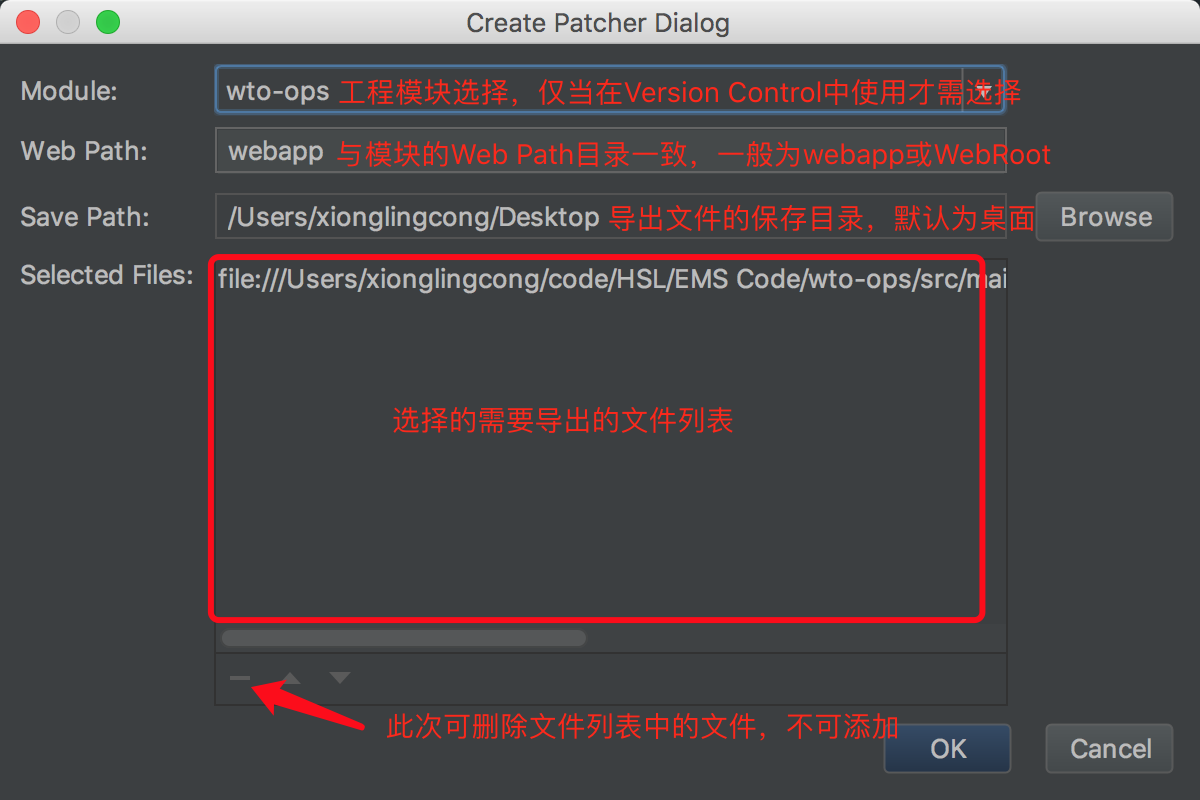
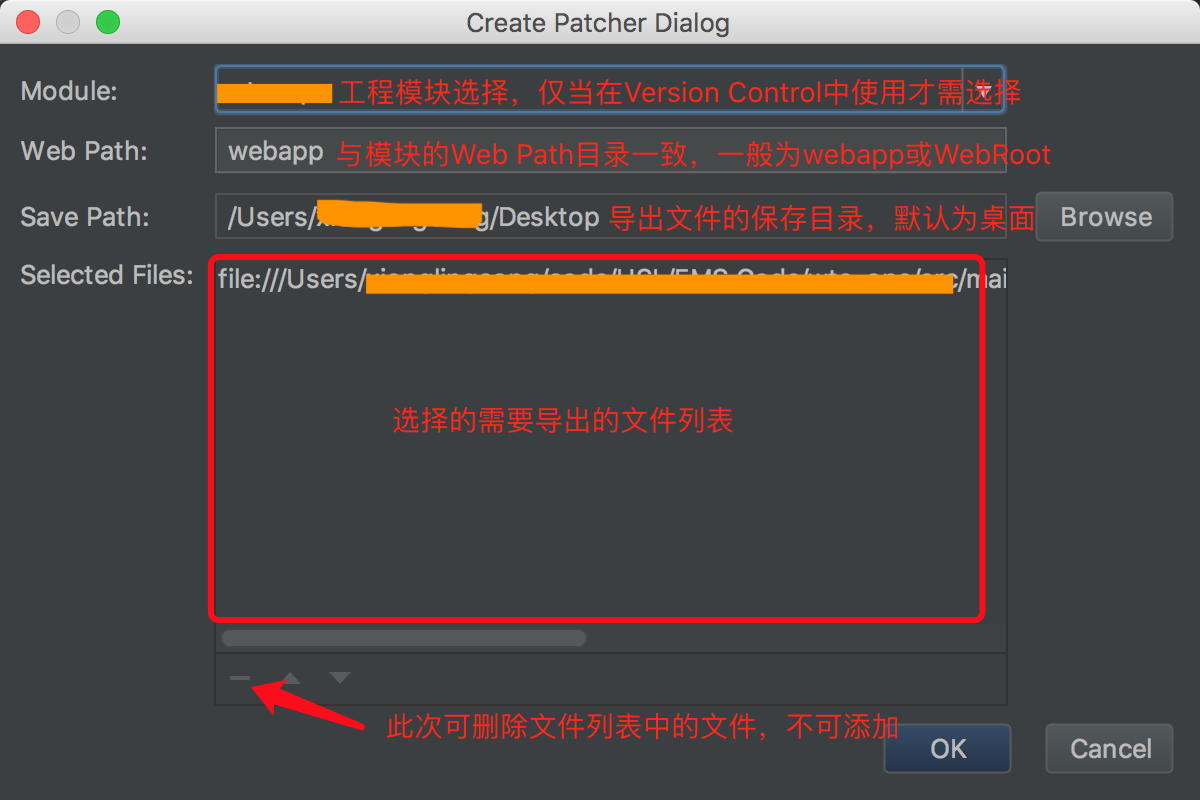
更新文档:图片加马赛克

Changed region(s): [[0.3083, 0.3438, 0.8017, 0.375], [0.2467, 0.25, 0.4008, 0.3125], [0.185, 0.0938, 0.2775, 0.1562]]

diff --git a/README.md b/README.md
@@ -38,4 +38,4 @@
 
 第3处：Version Control面板的Log（推荐使用，需要选Module，只支持IDEA 2017及以上版本）
 
-![img](doc/5.gif)
+![img](doc/5.png)
